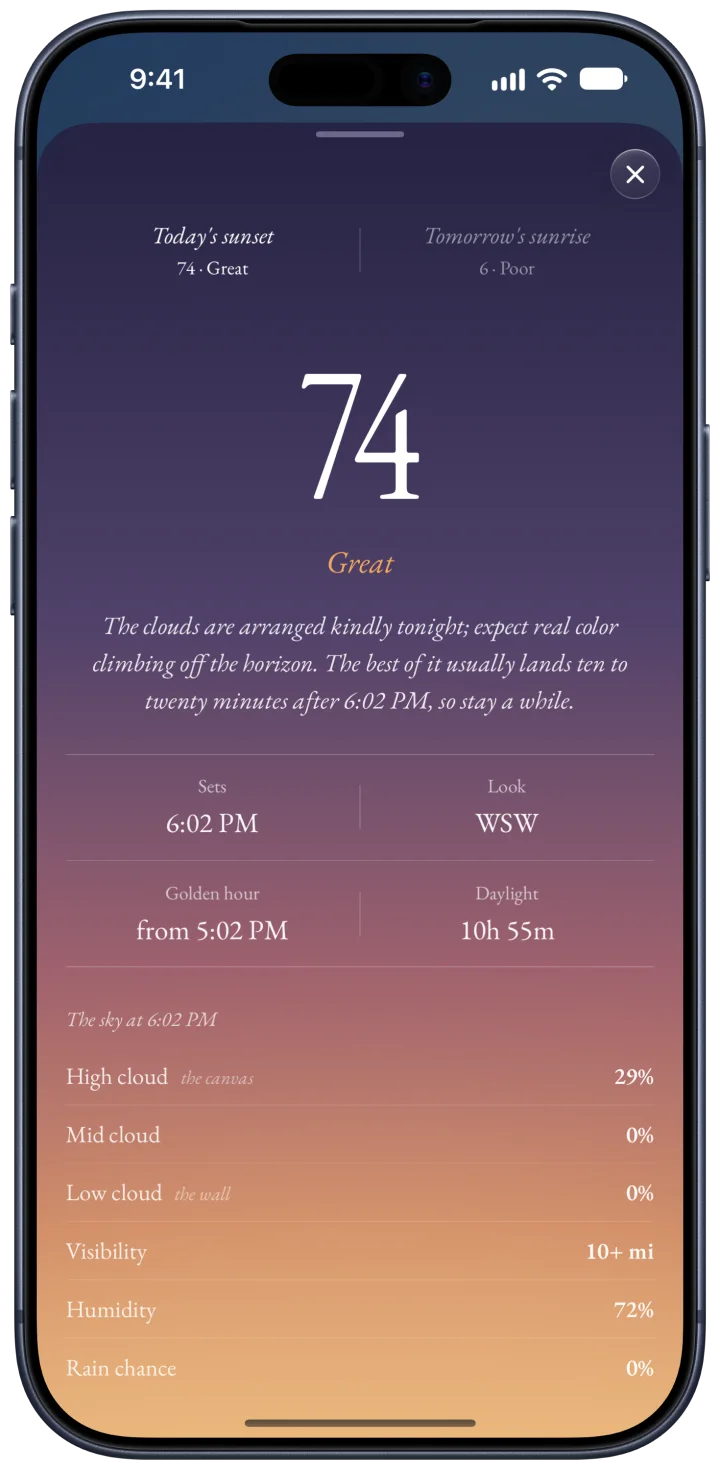
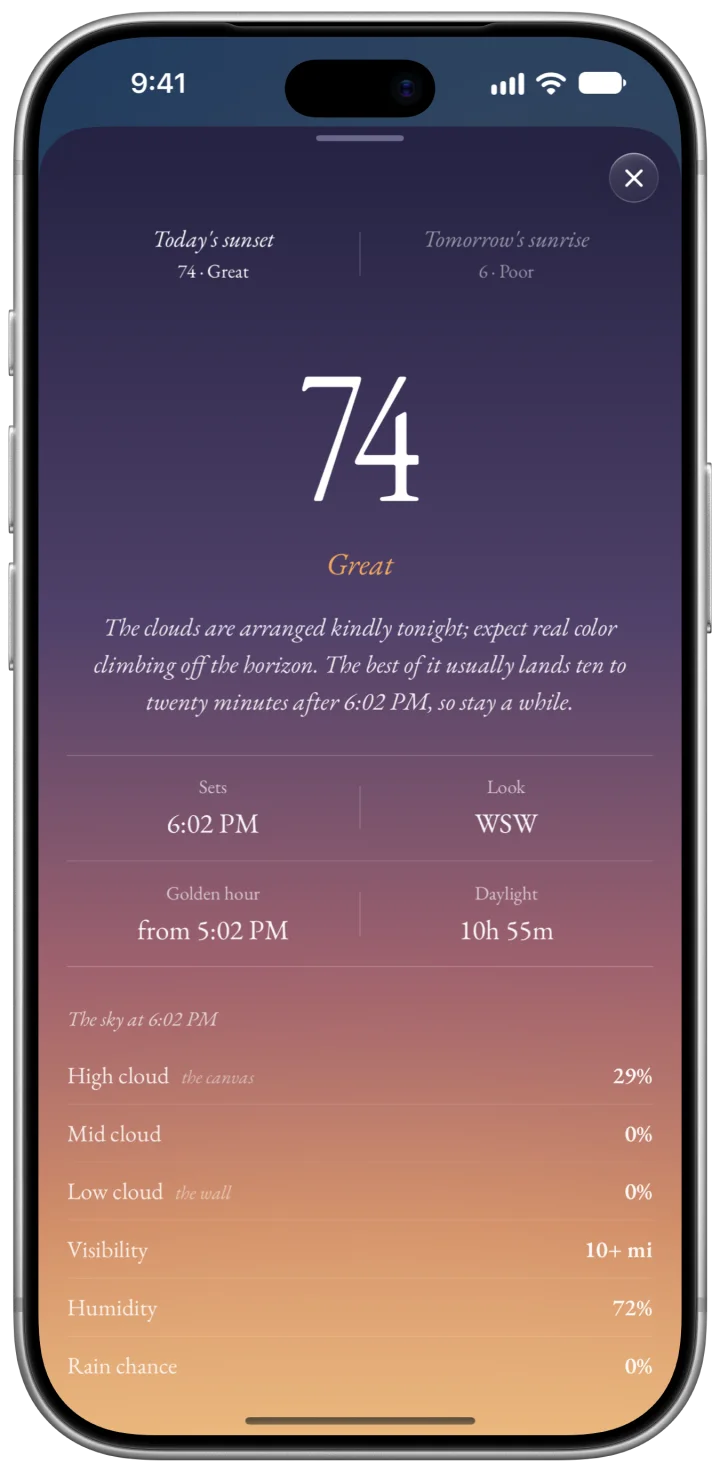
Frame the Haze devices in silver: iPhone 18 Pro, iPad Pro, MacBook Pro and Apple Watch, with iPhone Duo in Star White

diff --git a/haze/index.html b/haze/index.html
@@ -76,7 +76,7 @@
         </div>
       </div>
       <figure class="cover__phone">
-        <img src="/assets/img/haze/v3/framed-phone-night.webp" alt="Haze on iPhone at night in Sydney: 57 degrees under a clear sky" width="720" height="1470">
+        <img src="/assets/img/haze/v3/framed-phone-night.webp" alt="Haze on iPhone at night in Sydney: 57 degrees under a clear sky" width="720" height="1472">
       </figure>
       <p class="cover__scroll">Read on, and the day breaks.</p>
     </section>
@@ -89,7 +89,7 @@
       </header>
       <div class="hour__body hour__body--phone">
         <figure class="phone">
-          <img src="/assets/img/haze/v3/framed-phone-dawn.webp" alt="Haze at dawn in Honolulu: 77 degrees and mainly clear, under a pink sky" width="720" height="1470" loading="lazy">
+          <img src="/assets/img/haze/v3/framed-phone-dawn.webp" alt="Haze at dawn in Honolulu: 77 degrees and mainly clear, under a pink sky" width="720" height="1472" loading="lazy">
         </figure>
         <div class="hour__text">
           <h2 id="dawn-title">A sky that keeps the hour</h2>
@@ -136,10 +136,10 @@
           <p>A score for how good tonight's sunset or tomorrow's sunrise will look, judged from the cloud the forecast promises: high cloud is the canvas, low cloud the wall. Golden hour times come with it, and a heads-up if you want one.</p>
         </div>
         <figure class="phone">
-          <img src="/assets/img/haze/v3/framed-phone-dusk.webp" alt="Haze at dusk in Lisbon: 66 degrees and clear, minutes before sunset" width="720" height="1470" loading="lazy">
+          <img src="/assets/img/haze/v3/framed-phone-dusk.webp" alt="Haze at dusk in Lisbon: 66 degrees and clear, minutes before sunset" width="720" height="1472" loading="lazy">
         </figure>
         <figure class="phone phone--raised">
-          <img src="/assets/img/haze/v3/framed-phone-sunset.webp" alt="A sunset rated 74, great, on the sun page in Haze" width="720" height="1470" loading="lazy">
+          <img src="/assets/img/haze/v3/framed-phone-sunset.webp" alt="A sunset rated 74, great, on the sun page in Haze" width="720" height="1472" loading="lazy">
         </figure>
       </div>
       <div class="hour__pair hour__pair--flip">
